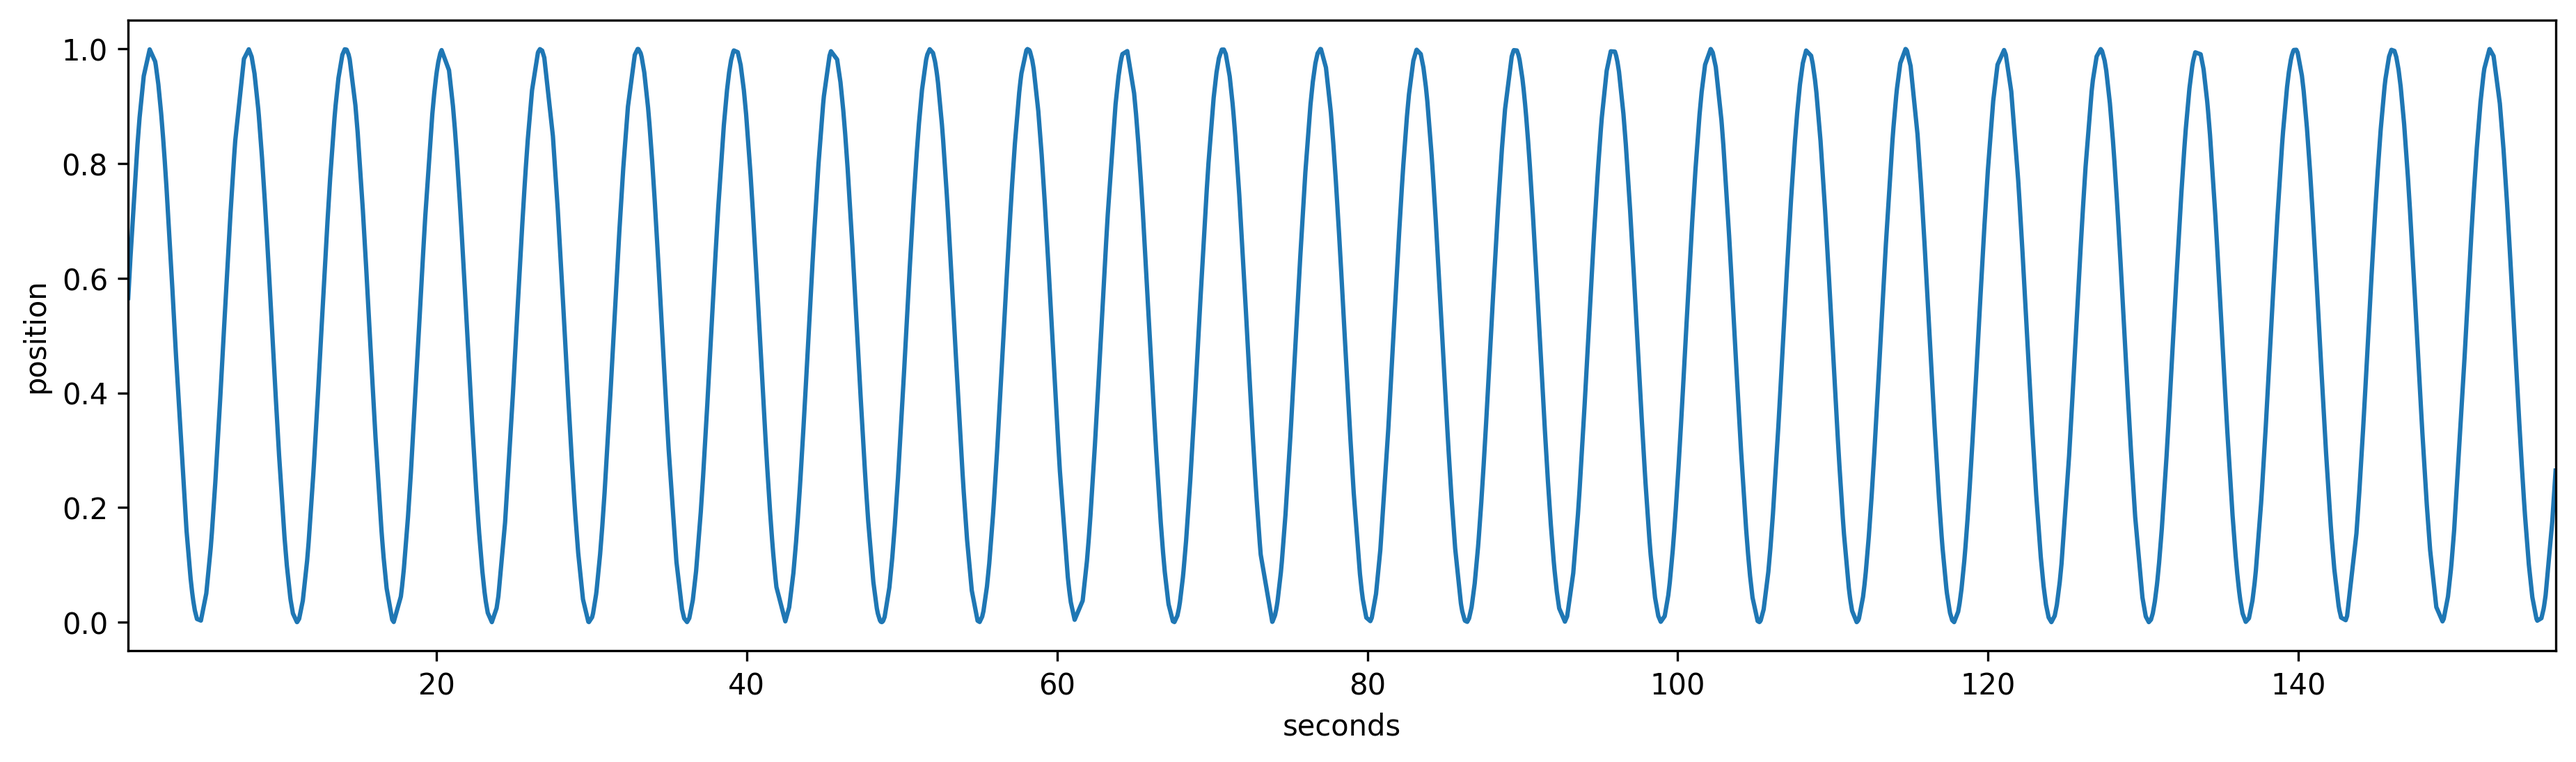
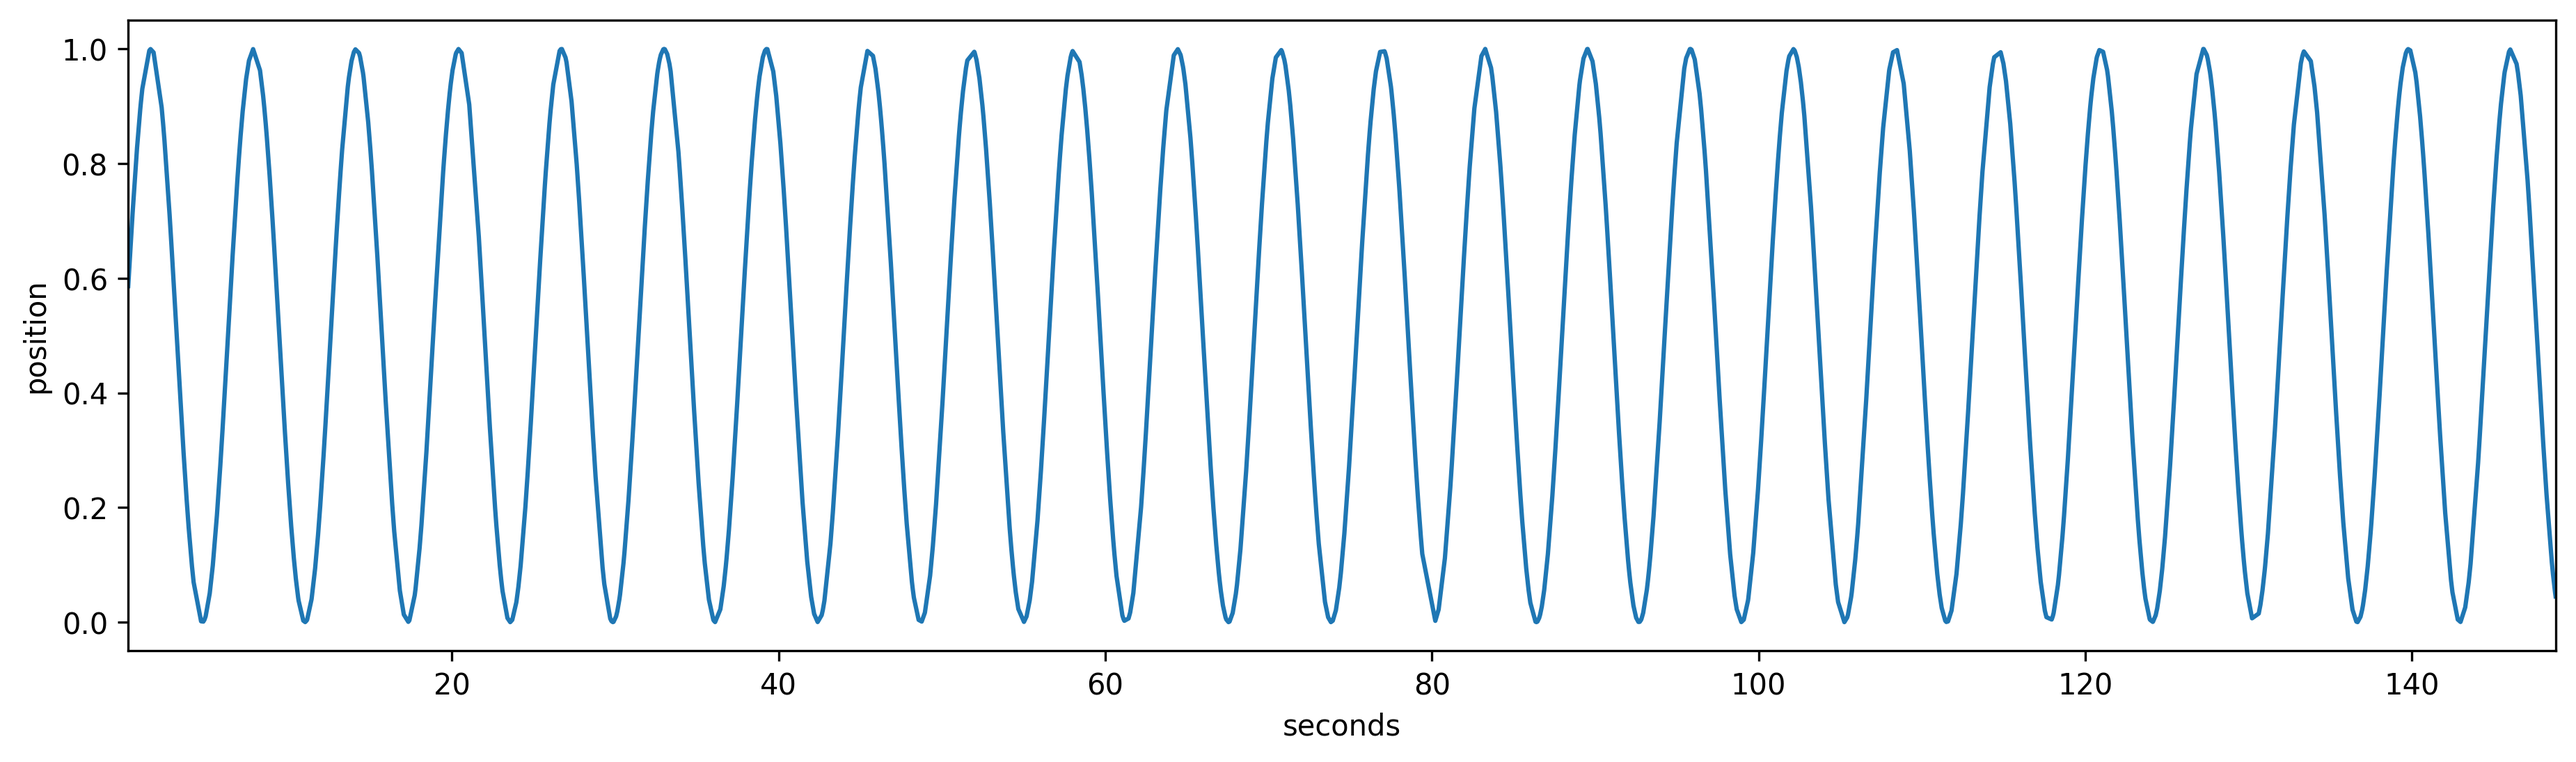
updated training procedure

diff --git a/train_human_empi_mdn.py b/train_human_empi_mdn.py
@@ -16,7 +16,11 @@ EARLY_STOPPING = True
 PATIENCE = 10
 MODEL_SIZE = 'xs'
 DIMENSION = 2
-DATA_LOCATION = 'datasets/empi-training-dataset-2d.npz'
+HUMAN_DATA_LOCATION = 'datasets/empi-human-dataset.npz'
+SYNTHETIC_DATA_LOCATION = 'datasets/empi-synthetic-dataset.npz'
+
+DATA_LOCATION = SYNTHETIC_DATA_LOCATION
+#DATA_LOCATION = HUMAN_DATA_LOCATION
 
 # Import Keras
 import empi_mdrnn

diff --git a/empi_generate_dataset.py b/empi_generate_dataset.py
@@ -53,7 +53,7 @@ for local_file in os.listdir(log_location):
 
 # Save Performance Data in a compressed numpy file.
 dataset_location = 'datasets/'
-dataset_filename = 'empi-training-dataset-2d.npz'
+dataset_filename = 'empi-human-dataset.npz'
 
 # Input format is:
 # 0. 1. 2. ... n.

diff --git a/README.md b/README.md
@@ -43,3 +43,10 @@ The EMPI consists of a Raspberry Pi, audio amplifier and speaker, input lever, a
 
 - Raspberry Pi 3B+
 - Seeed Studios Grove Base Hat
+
+### Training
+
+1. download or generate some human data, then run `train_human_empi_mdn.py` to train the human model.
+2. use `train_synthetic_mdn_data` notebook to generate and train synthetic data.
+
+
